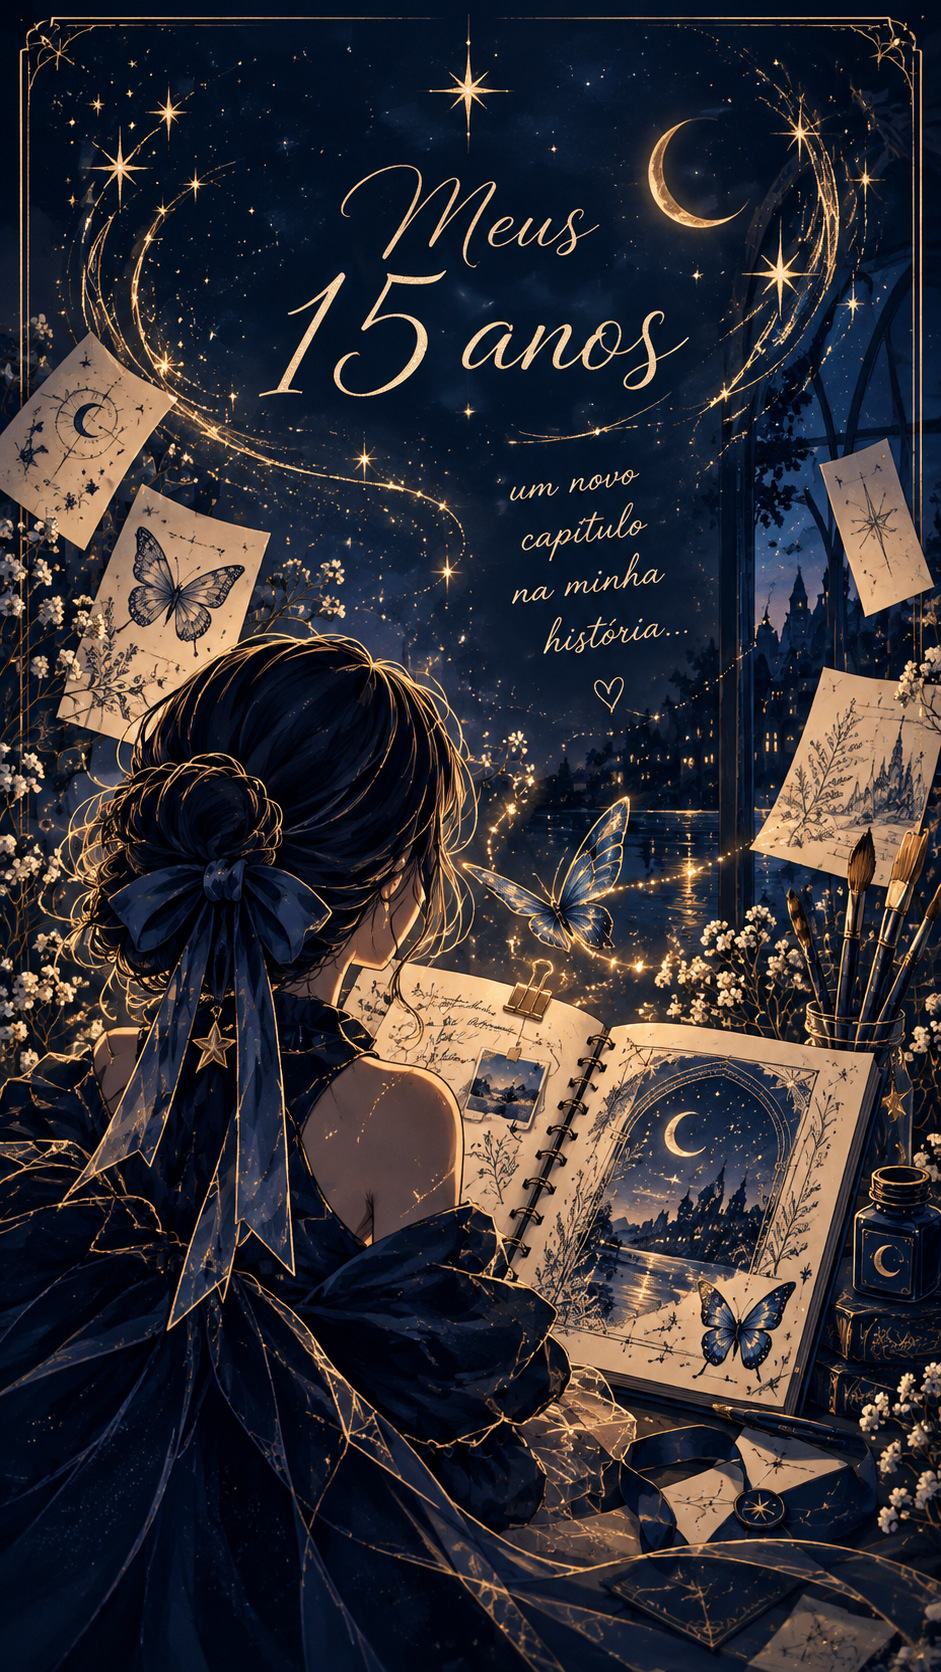
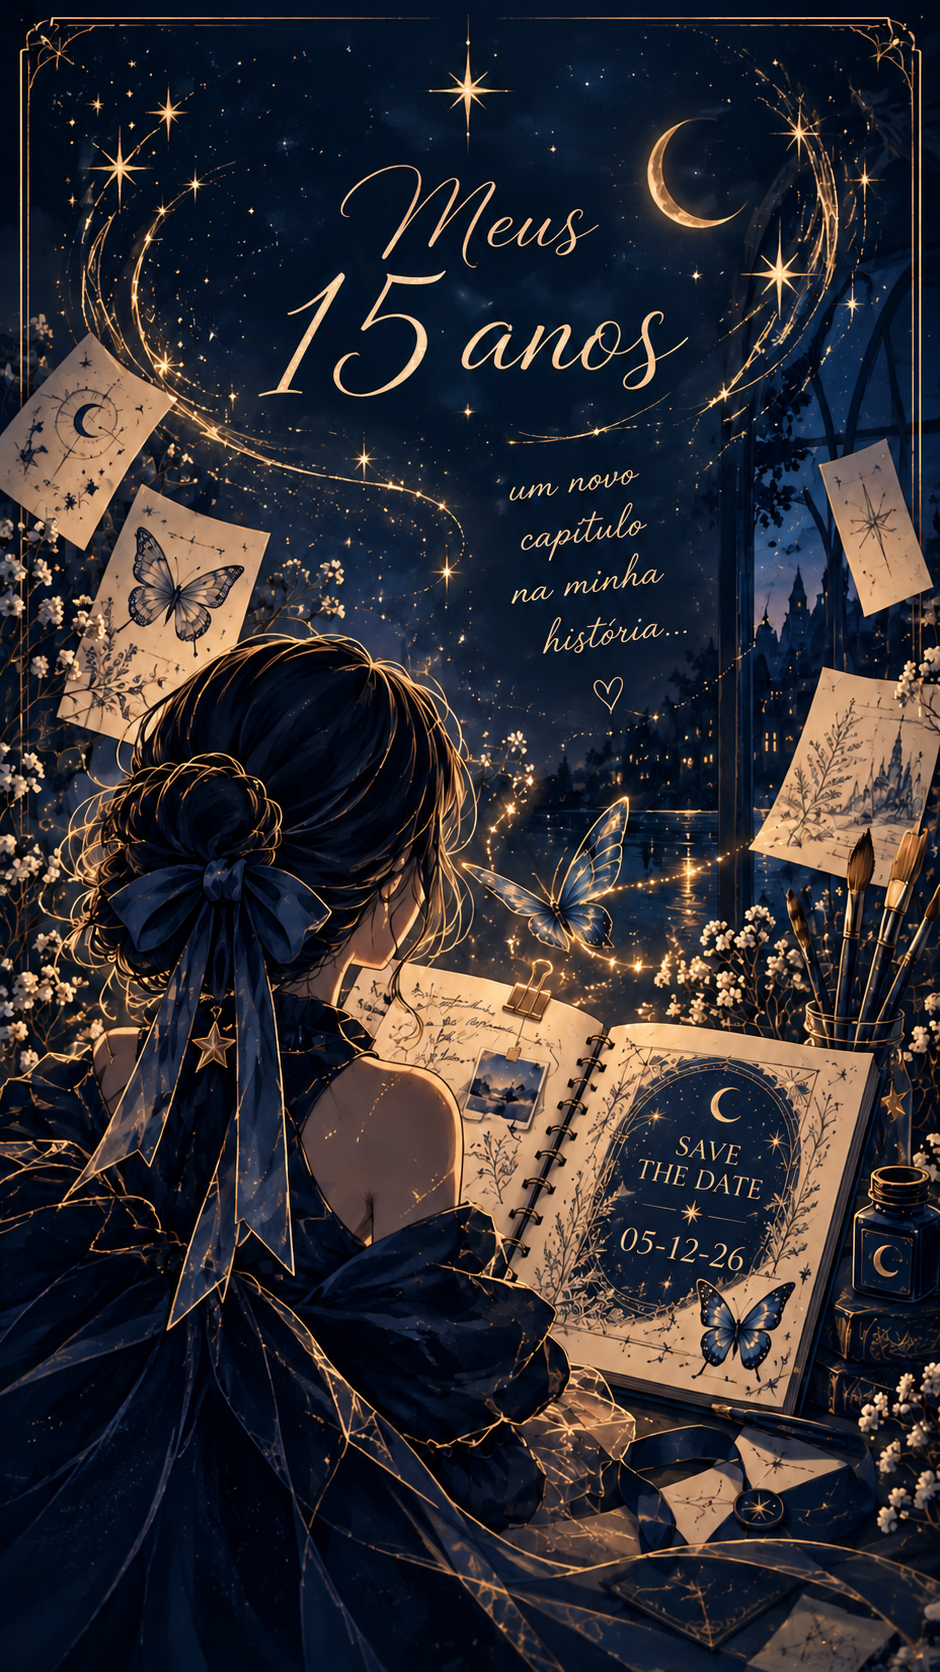
Ajustes

diff --git a/index.html b/index.html
@@ -217,9 +217,9 @@ function start(){
   update();
   heroImage.style.transform='none';
   if(window.matchMedia('(prefers-reduced-motion: reduce)').matches){showContent();return;}
-  later(()=>focusOnBook(),3600);
-  later(()=>reveal.classList.add('show'),10250);
-  later(showContent,12850);
+  later(()=>focusOnBook(),1000);
+  later(()=>reveal.classList.add('show'),7000);
+  later(showContent,9850);
 }
 document.getElementById('skip').onclick=()=>{clearTimers();showContent()};
 document.getElementById('replay').onclick=start;
